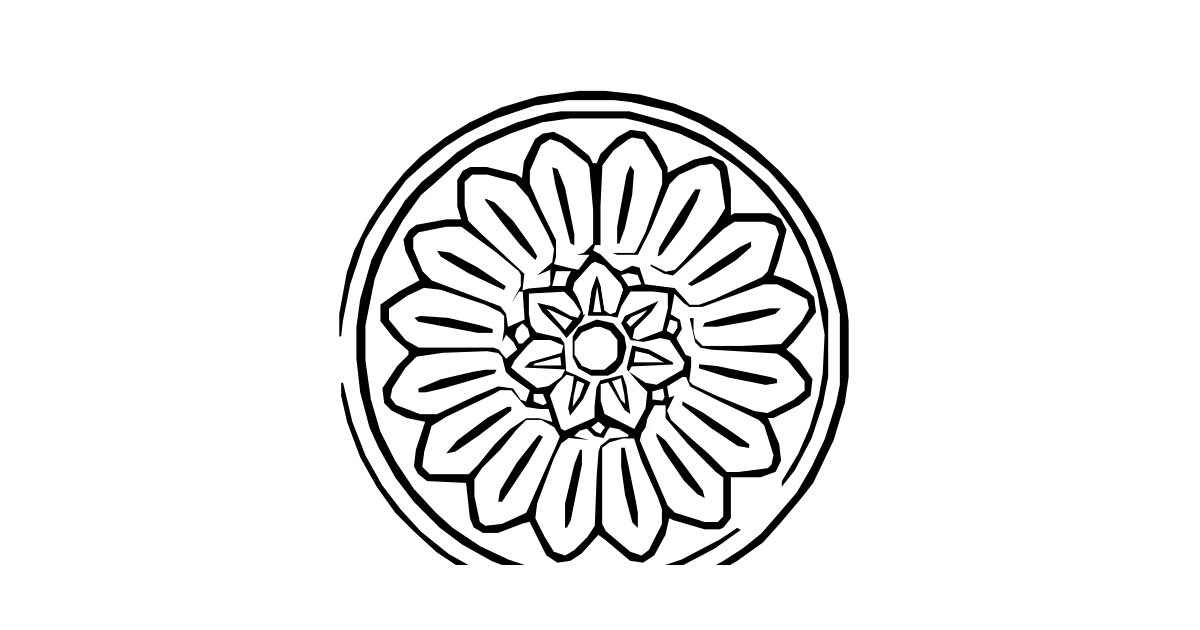
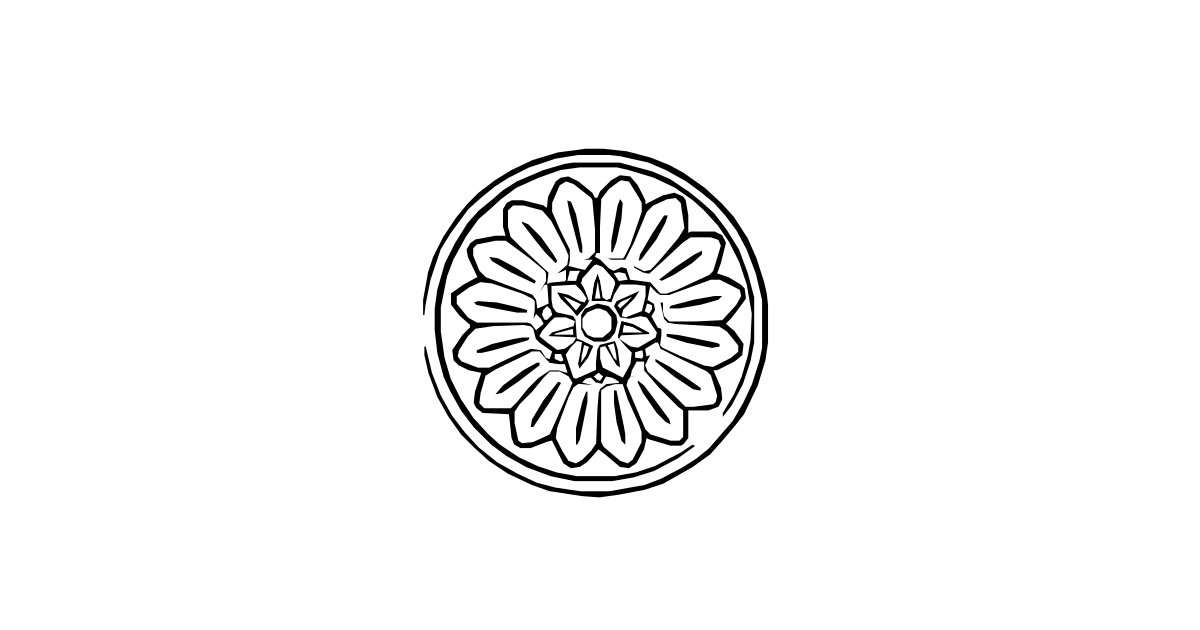
Update rose viewBox and OG image generation
Adjust the rose emblem viewBox and update image generation parameters. Introduce ROSE_VIEWBOX (674,5,252,248) and use it for SVG cropping and density calculations, reduce rendered rose height, increase supersampling, and regenerate icon and OG PNGs. Also bump OG image cache query to v=7 to force refresh. Changes affect app/layout.tsx, public icons/OG images, and scripts/generate-*.mjs.

Changed region(s): [[0.2775, 0.1206, 0.7092, 0.9048]]

diff --git a/app/layout.tsx b/app/layout.tsx
@@ -50,7 +50,7 @@ export const metadata: Metadata = {
     type: "website",
     images: [
       {
-        url: "/og-image.png?v=5",
+        url: "/og-image.png?v=7",
         width: 1200,
         height: 630,
         alt: "Santese Art — rosa",
@@ -63,7 +63,7 @@ export const metadata: Metadata = {
     title: "Santese Art - Ebanisteria & Falegnameria Artistica",
     description:
       "Ebanisteria e falegnameria artistica di Rocco Santese a Oria (BR). Specializzati in intaglio, intarsio, restauro di oggetti antichi d'arte e manufatti artigianali su misura.",
-    images: ["/og-image.png?v=5"],
+    images: ["/og-image.png?v=7"],
   },
   icons: {
     icon: [